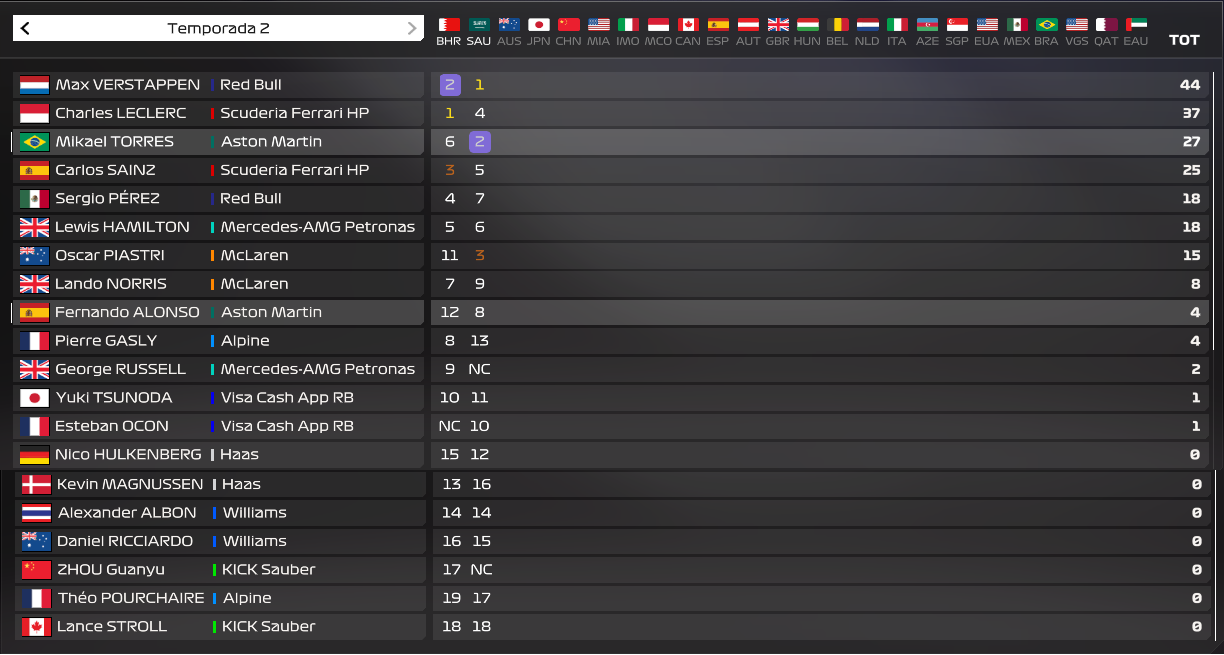
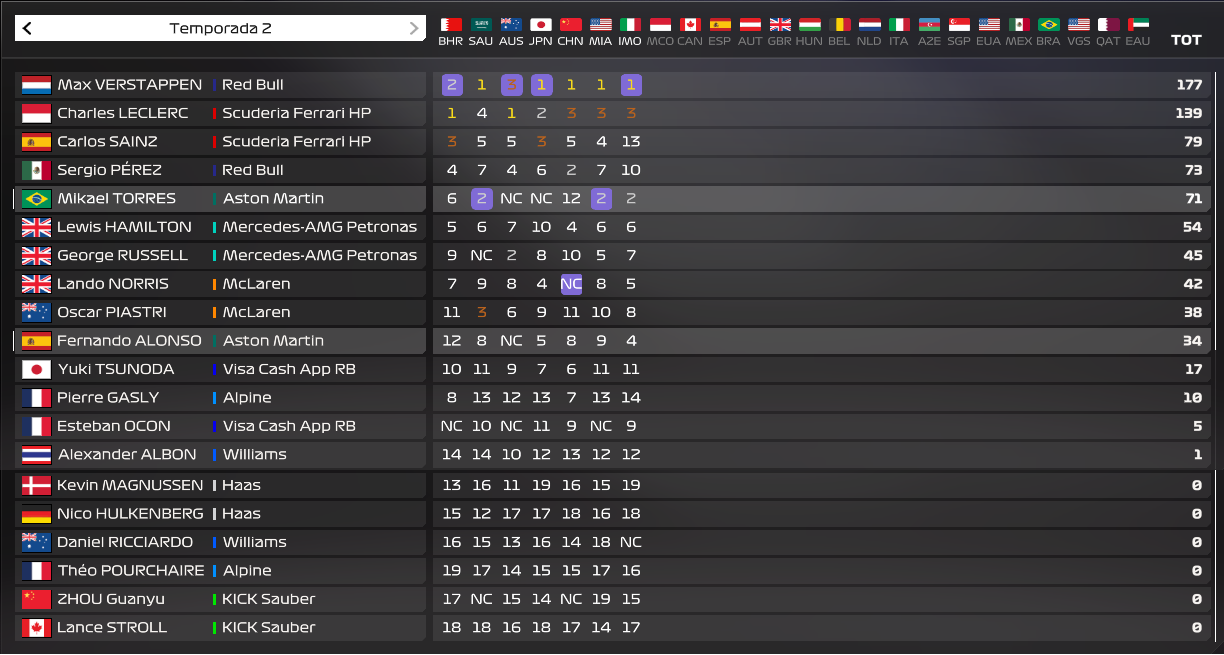
Atualização 2.03

diff --git a/index.html b/index.html
@@ -24,8 +24,8 @@
                     <li><a class="menu-principal__item" href="Classificacao.html">Classificação</a></li>
                     <li><a class="menu-principal__item" href="ProximoGP.html">Próximo GP</a></li>
                 </ul>
+            </nav>
         </div>
-        </nav>
     </header>
     <main>
         <header class="home__header">
@@ -49,8 +49,8 @@
                 <section class="servicos__item">
                     <img class="img" src="imagens/img/imagemtrofeu.png" alt="xicara de cafe">
                     <h3>Posição Campeonato</h3> <!--Posicao campeonato-->
-                    <p class="servicos__texto"> 27 Pontos</p>
-                    <p class="servicos__texto"> 3&deg</p>
+                    <p class="servicos__texto"> 71 Pontos</p>
+                    <p class="servicos__texto"> 5&deg</p>
                 </section>
             </div>
         </section>
@@ -61,7 +61,7 @@
                     <img class="depoimentos__img" src="imagens/img/depoimentos/fotomikael.png" alt="Foto da pessoa x">
                     <p class="depoimentos__texto">Piloto Brasileiro de 21 anos de idade, fazendo sua segunda temporada
                         na formula 1, iniciando como piloto da Visa Cash App RACING BULLS (Segunda equipe da
-                        Red Bull), e por fazer uma ótima temporada com um carro de meio do grid, a equipe Aston Martin se enteressou pelo piloto Brasileiro.
+                        Red Bull), e por fazer uma ótima temporada com um carro de meio do grid, a equipe Aston Martin se interessou pelo piloto Brasileiro.
 
                     <p>Desta forma, a equipe não escondeu o completo interresse de ter o Mikael em um de seus carros na temporada de 2025. visando ter dois pilotos para pontuar para a equipe, o que não aconteceu na temporada anterior.
                     </p>
@@ -110,7 +110,7 @@
             </div>
         </div>
         <div class="rodape__linha-2">
-            &copy 2024 - Todos Os Direitos Reservados - Equipe Mikael TORRES
+            &copy 2025 - Todos Os Direitos Reservados - Equipe Mikael TORRES
         </div>
     </footer>
     <script src="js/jquery-3.3.1.min.js"></script>

diff --git a/ProximoGP.html b/ProximoGP.html
@@ -28,16 +28,13 @@
             <h1 class="pagina-cabecalho__titulo">Próximo Grand Prix</h1>
         </header>
         <section class="container pagina-conteudo">
-            <h2 class="text-center"> Melbourne Grand Prix Circuit / Grande Prémio Da Austrália - GP 3 / 24 </h2>
+            <h2 class="text-center"> Melbourne Grand Prix Circuit / Grande Prêmio da Austrália - GP 3 / 24 </h2>
             <p class="text-center">
                 O Grande Prêmio da Austrália começou a ser disputado em 1928 com algumas interrupções da Segunda Guerra Mundial, após isso foi disputado regularmente, começou a fazer parte do campeonato de Fórmula 1 em 1985.
             </p>
-            <p class="text-center">
-                
-            </p>
         </section>
         <div class="map">
-            <iframe src="https://www.google.com/maps/embed?pb=!1m18!1m12!1m3!1d3150.4253867684383!2d144.96743097530415!3d-37.850335936128054!2m3!1f0!2f0!3f0!3m2!1i1024!2i768!4f13.1!3m3!1m2!1s0x6ad6680c4961a545%3A0xcfde1155b81a8e8!2sCircuito%20de%20Albert%20Park!5e0!3m2!1spt-BR!2sbr!4v1726099520812!5m2!1spt-BR!2sbr" width="600" height="450" style="border:0;" allowfullscreen="" loading="lazy" referrerpolicy="no-referrer-when-downgrade"></iframe>
+            <iframe src="https://www.google.com/maps/embed?pb=!1m18!1m12!1m3!1d8910.689571158828!2d144.96884378993374!3d-37.850824516345!2m3!1f0!2f0!3f0!3m2!1i1024!2i768!4f13.1!3m3!1m2!1s0x6ad6680c4961a545%3A0xcfde1155b81a8e8!2sCircuito%20de%20Albert%20Park!5e0!3m2!1spt-BR!2sbr!4v1745503730425!5m2!1spt-BR!2sbr" width="600" height="450" style="border:0;" allowfullscreen="" loading="lazy" referrerpolicy="no-referrer-when-downgrade"></iframe>
         </div>
     </main>
     <footer class="rodape">
@@ -69,7 +66,7 @@
             </div>
         </div>
         <div class="rodape__linha-2">
-            &copy 2024 - Todos Os Direitos Reservados - Equipe Mikael TORRES 
+            &copy 2025 - Todos Os Direitos Reservados - Equipe Mikael TORRES 
         </div>
     </footer>
     <script src="js/jquery-3.3.1.min.js"></script>

diff --git a/Classificacao.html b/Classificacao.html
@@ -723,7 +723,7 @@
             </div>
         </div>
         <div class="rodape__linha-2">
-            &copy 2024 - Todos Os Direitos Reservados - Equipe Mikael TORRES
+            &copy 2025 - Todos Os Direitos Reservados - Equipe Mikael TORRES
         </div>
     </footer>
     <script src="js/jquery-3.3.1.min.js"></script>

diff --git a/sobre.html b/sobre.html
@@ -75,7 +75,7 @@
             </div>
         </div>
         <div class="rodape__linha-2">
-            &copy 2024 - Todos Os Direitos Reservados - Equipe Mikael TORRES
+            &copy 2025 - Todos Os Direitos Reservados - Equipe Mikael TORRES
         </div>
     </footer>
     <script src="js/jquery-3.3.1.min.js"></script>

diff --git a/sass/components/_menu-principal.scss b/sass/components/_menu-principal.scss
@@ -11,7 +11,6 @@
     border-style: solid;
     border-radius: 5px;
     cursor: pointer;
-    
     position: absolute;
     top: 15px;
     right: 15px;
